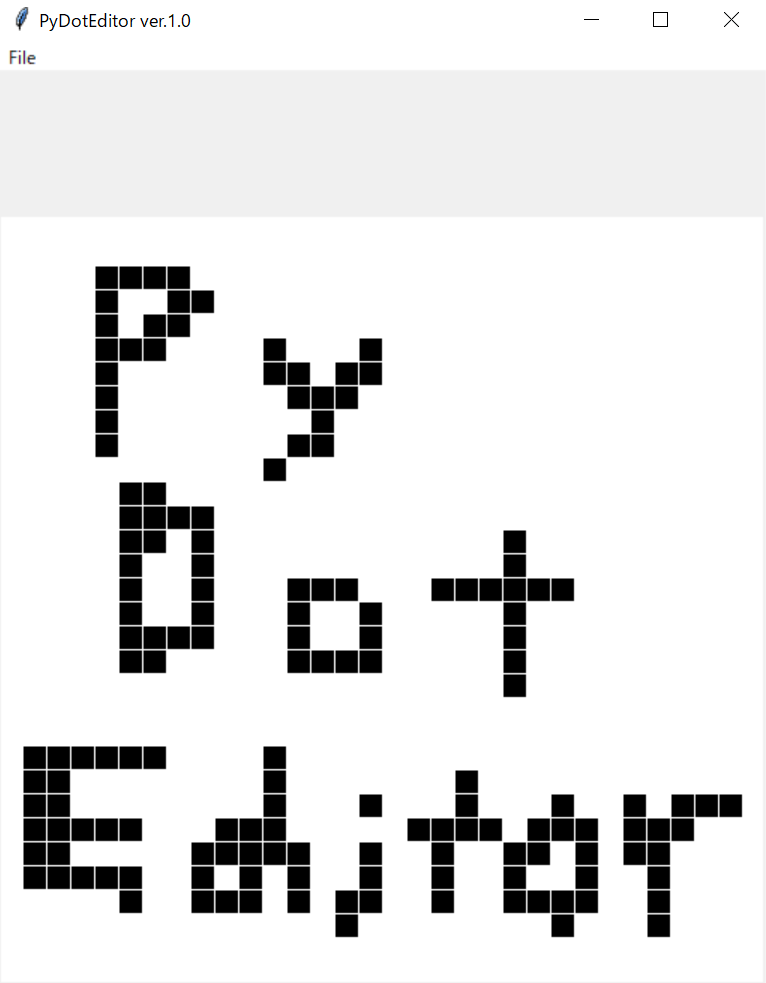
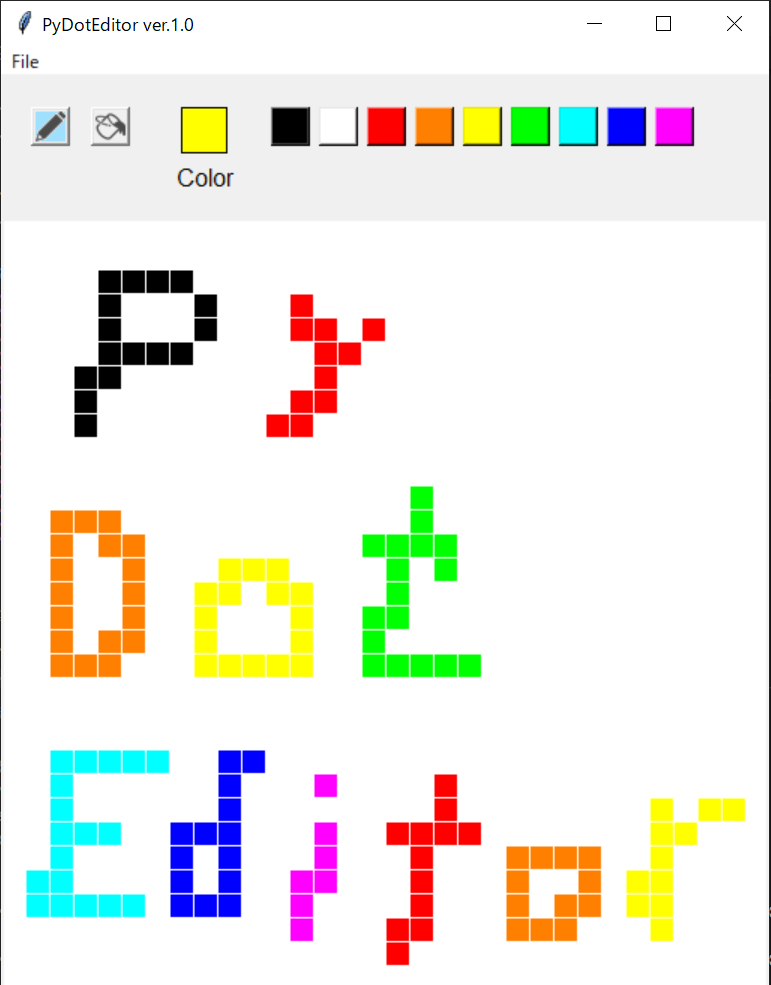
added colors

diff --git a/PyDotEditor.py b/PyDotEditor.py
@@ -51,8 +51,12 @@ class GUI(tk.Frame):
             (  0,   0,   0), # 黒
             (255, 255, 255), # 白
             (255,   0,   0), # 赤
+            (255, 127,   0), # 橙
+            (255, 255,   0), # 黄
             (  0, 255,   0), # 緑
+            (  0, 255, 255), # 水
             (  0,   0, 255), # 青
+            (255,   0, 255), # 桃
         ]
 
         # 変数
